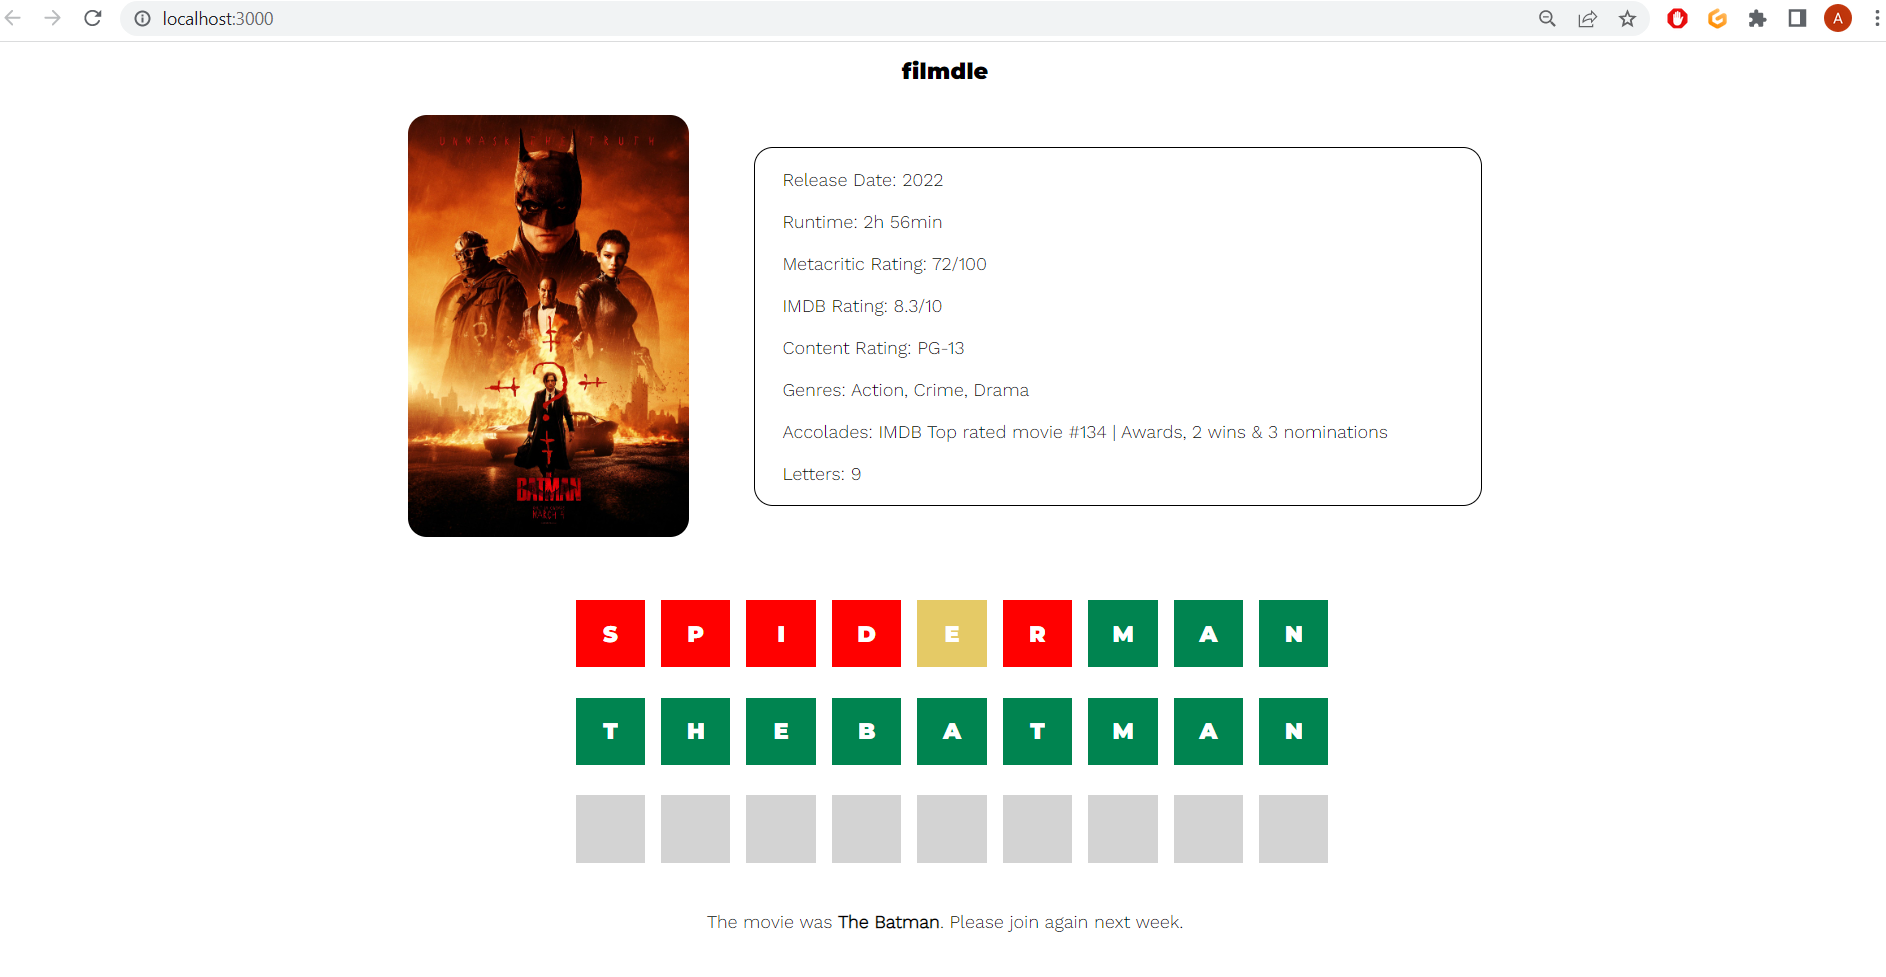
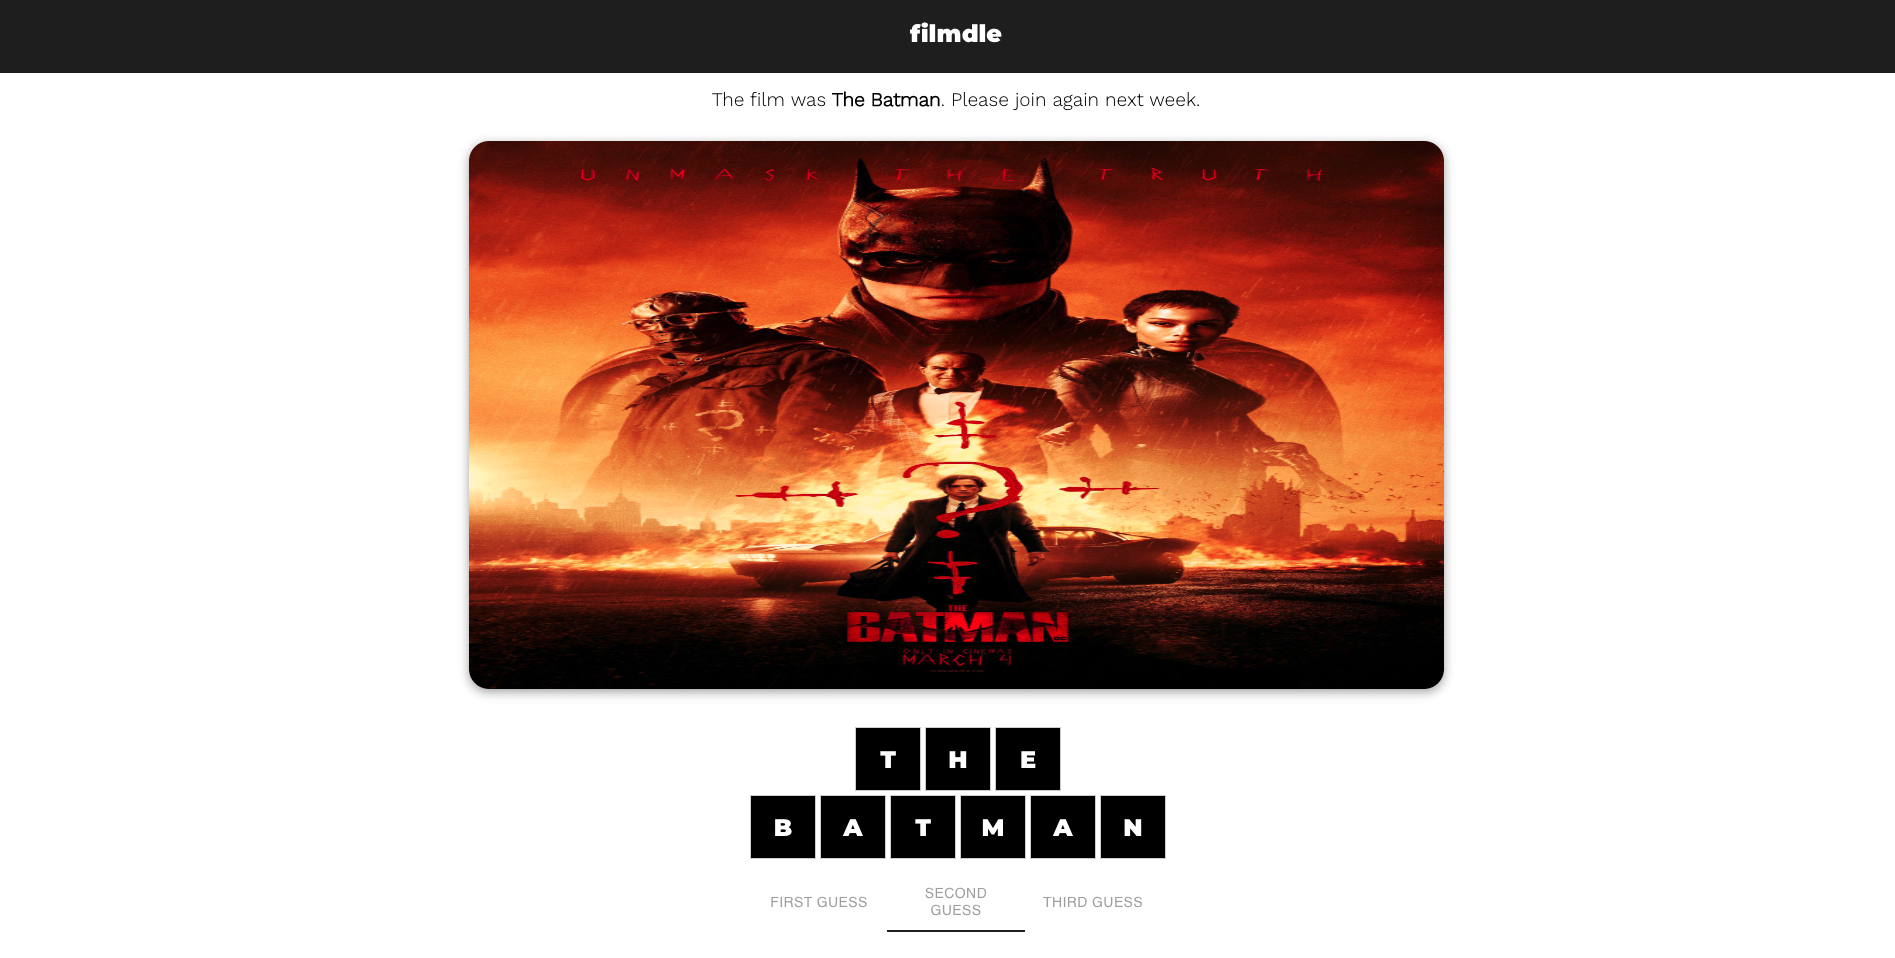
Full deployment to AWS completed

diff --git a/README.md b/README.md
@@ -2,13 +2,17 @@
 
 ### Gameplay
 
-This is a alpha version and more will be added to better the UX/UI and overall design. App will be deployed via AWS.
+Version 1.00.
 
-Users have three guesses to guess the movie and are given some background on what the movie can be. After each guess the user is also given input on how close they are to the answer (yellow = word exists in movie but not in correct, red = word does not exist in the movie, green = word exists in the movie and in correct place). If correct or if all gueses are up, users (and their guesses) are locked out until next week where a new movie will be given.
+More features (such as a user analysis/statistics feature) and improved UI/UX design will be continuously added to improve the overall app gameplay/design.
 
-App uses various CSS animations on the user input fields, and was created with TypeScript with a MERN stack and the 3rd party IMDB API. 
+Users have three guesses to guess the movie title and are given some background on what the movie can be. After each guess the user is also given input on how close they are to the answer (grey = the letter exists in the movie but is not in the correct spot, white = the letter does not exist in the movie title, black = the letter exists in the movie title and is in the correct spot). If the user guesses the correct movie title or if all 3 guesses are used (and movie is not correctly guessed), the user is locked out until next week where a new movie will be given.
+
+App uses various CSS animations, and was developed using a MERN stack + TypeScript. The app also uses a 3rd party IMDB API and was deployed via AWS (Cloud Front + S3 + Route 53 for Frontend/Client and Elastic BeanStalk for Backend/API). 
+
+You can find the app here: filmdle.ca.
 
 ### Screenshots
-!["Start"](https://github.com/Aman-Hundal/MyPortfolio/blob/main/docs/start.png?raw=true)
-!["Guess"](https://github.com/Aman-Hundal/MyPortfolio/blob/main/docs/play.png?raw=true)
-!["End"](https://github.com/Aman-Hundal/MyPortfolio/blob/main/docs/end.png?raw=true)
+!["Start"]()
+!["Guess"]()
+!["End"]()
